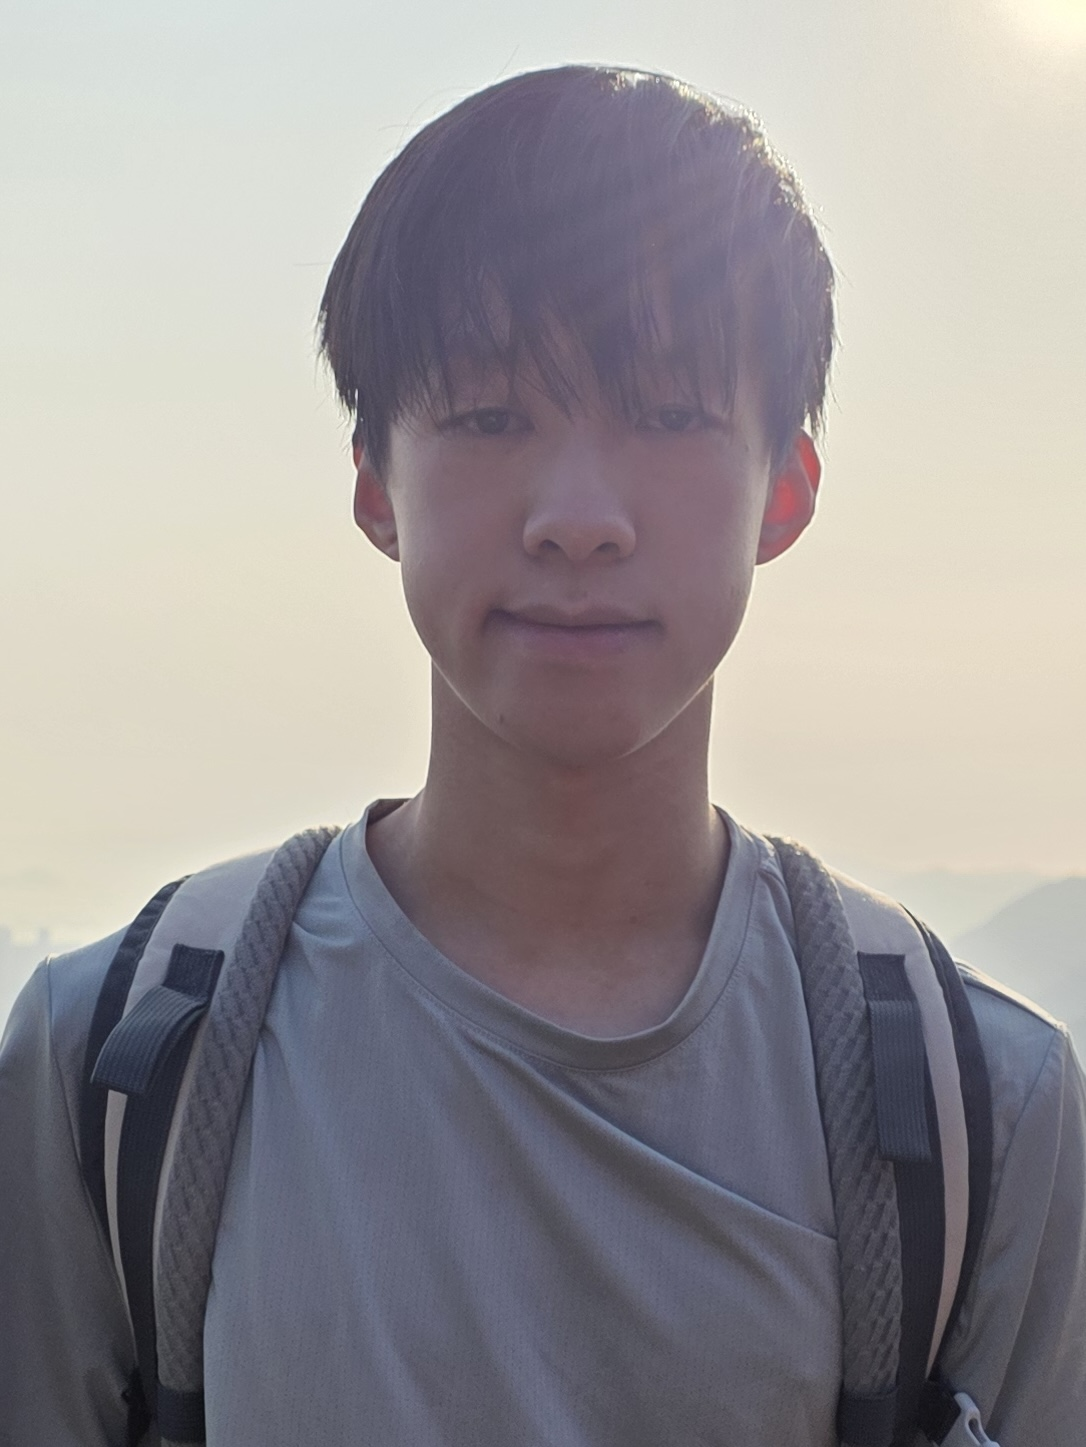
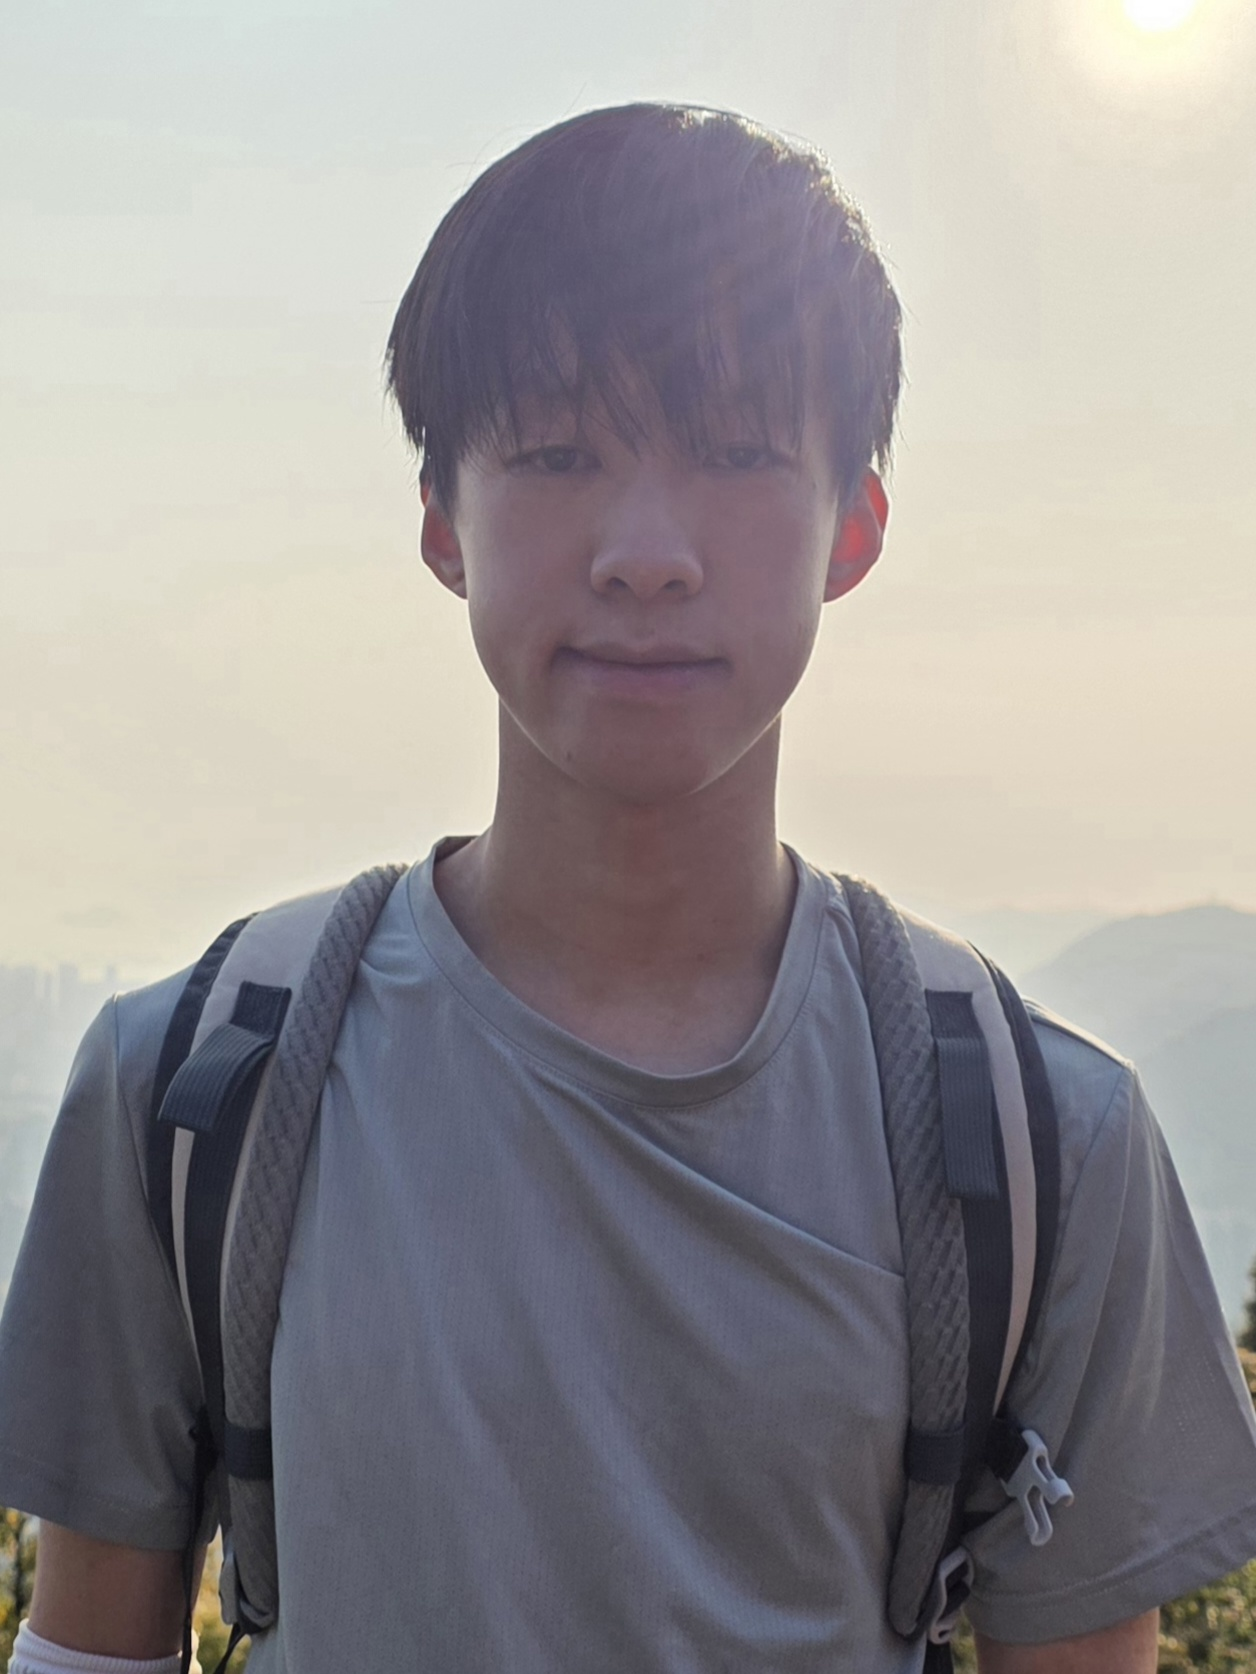
Keep mobile publication layout

diff --git a/app/globals.css b/app/globals.css
@@ -797,21 +797,27 @@ img {
     --section-badge-size: 0.82rem;
   }
 
+  .publications {
+    --publication-venue-column: clamp(4.75rem, 24vw, 5.5rem);
+    --publication-title-gap: clamp(8px, 2.4vw, 12px);
+  }
+
   .publication-list {
     gap: 34px;
   }
 
   .publication-row {
-    grid-template-columns: 1fr;
+    grid-template-columns: var(--publication-venue-column) minmax(0, 1fr);
   }
 
   .venue-block {
-    grid-template-columns: auto auto 1fr;
+    grid-template-columns: minmax(0, 1fr);
     justify-items: start;
   }
 
-  .venue-block strong {
-    grid-column: auto;
+  .venue-heading {
+    grid-column: 1;
+    flex-wrap: wrap;
   }
 
   .education-row,
@@ -840,5 +846,10 @@ img {
   .intro-panel {
     width: 100%;
     padding-top: 0;
+  }
+
+  .publications {
+    --publication-venue-column: clamp(4.35rem, 25vw, 4.9rem);
+    --publication-title-gap: 8px;
   }
 }
